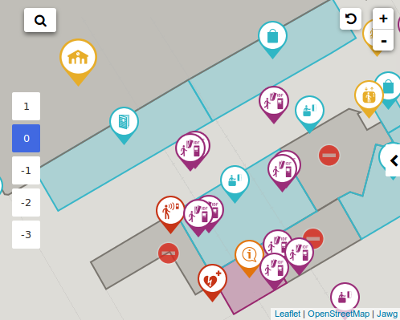
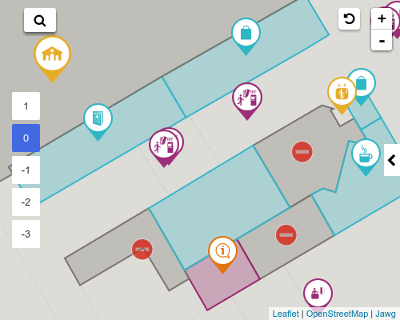
[Fix] Floors + Readme images

diff --git a/jawgmaps/jawgmaps.js b/jawgmaps/jawgmaps.js
@@ -83,7 +83,7 @@ var Jawg = {};
    */
   if (document.getElementById("jawgmaps")) {
     init(mapConf);
-      activateFloors();
+    activateFloors();
   }
 
   /**
@@ -263,7 +263,7 @@ var Jawg = {};
     var stations;
     var timeOut;
     var floorsList;
-    var currentFloor = 0;
+    var currentFloor = null;
     var availableFloors;
     var floorsLayer;
     var floorLayerServer =  Jawg._conf.floorLayerServer;
@@ -344,6 +344,10 @@ var Jawg = {};
       if (currentFloor != floor) {
         currentFloor = floor;
         floorsLayer.setUrl(floorLayerServer.replace('{0}', currentFloor));
+        Jawg._filterParams.put("floor", currentFloor.toString());
+        if (Jawg.refreshMap) {
+          Jawg.refreshMap();
+        }
       }
     };
 
@@ -489,6 +493,14 @@ var Jawg = {};
       var northEast = L.latLng(boundingBox.getNorth() + deltaLat / 2, boundingBox.getEast() + deltaLng / 2);
       return L.latLngBounds(southWest, northEast);
     };
+
+    function refreshMap() {
+      var currentBoundingBox = Jawg.map.getBounds();
+      var option = {
+        box: enlarge(currentBoundingBox, Jawg._conf.poiLoadFactor)
+      };
+      getPois(option);
+    }
 
     /**
      * Get type associated to a given POI
@@ -684,6 +696,8 @@ var Jawg = {};
     Jawg.map.on('zoomend', function() {
       reloadPoisIfNeeded(true);
     });
+
+    Jawg.refreshMap = refreshMap;
   }
 
   //-------------------------------------------------//

diff --git a/sample/index.html b/sample/index.html
@@ -71,7 +71,7 @@
 <script src="http://cdnjs.cloudflare.com/ajax/libs/leaflet/0.7.3/leaflet.js"></script>
 <script src="../jawgmaps/jawgmaps.js"></script>
 <script>
-//  Jawg.activateWidgets(["refresh", "pois", "search", "pois-menu"]);
+  Jawg.activateWidgets(["refresh", "pois", "search", "pois-menu"]);
 </script>
 </body>
 </html>
